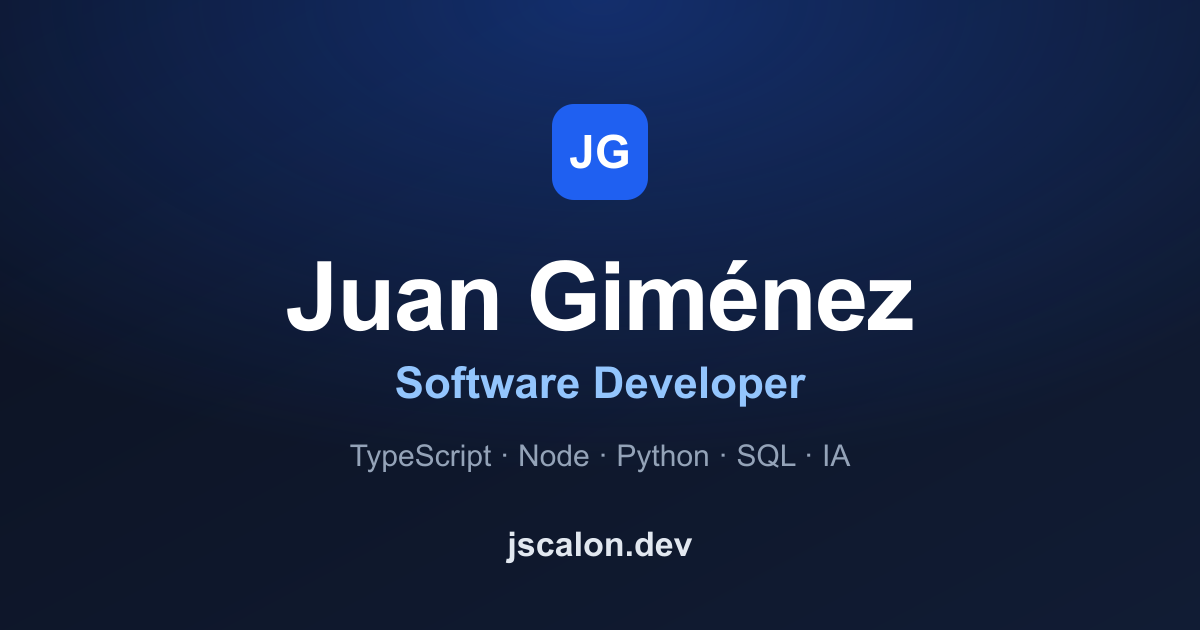
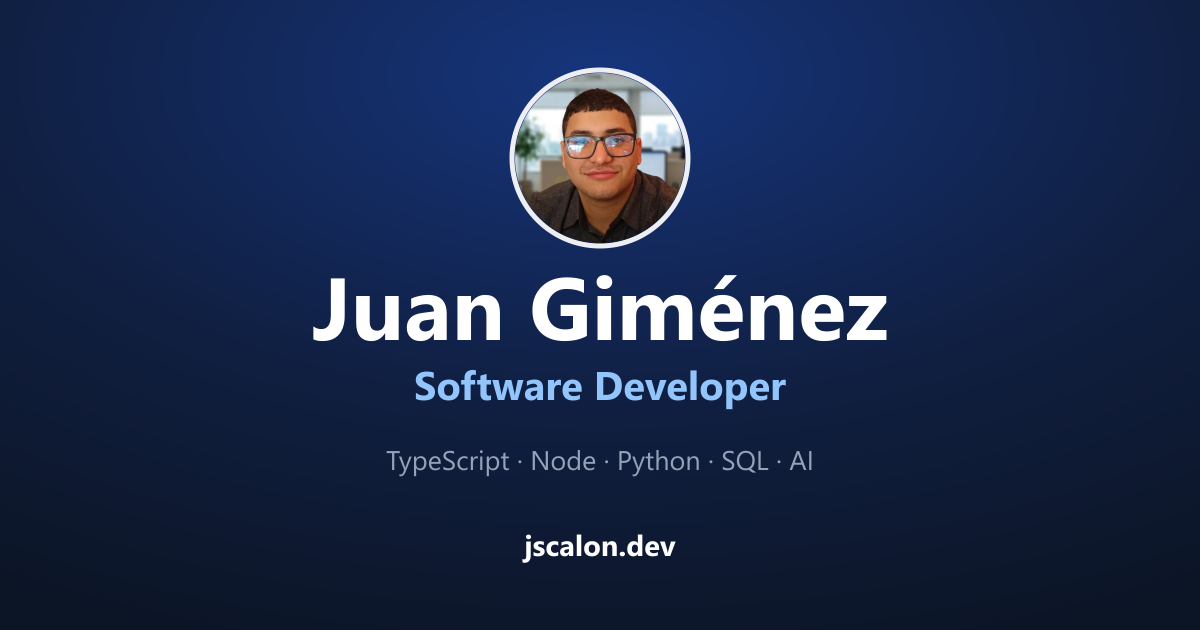
feat: refresh the portrait and make the social card reproducible
Replace the profile photo. The new base was framed wide, with the face in
the upper third, which reads badly in a circular avatar rendered at 112 to
208 px — the face would have come out around 50 px on a phone. Cropped to
a portrait framing instead (eyes at ~40% of the height, head filling ~65%
of the frame) and resized to the documented 800x800.

That change surfaced two derived files nobody knew depended on the photo.

The portfolio case study's cover is a screenshot of the home page, so it
still showed the old portrait. Retaken and updated; the new capture was
848x675 and had to be upscaled to the required 1200x675, which a mostly
flat screenshot tolerates without visible softening.

public/og-image.png embedded the old design's initials rather than a face.
Recomposed around the new portrait, keeping the sampled palette of the
previous card so the identity does not change, and fixing the stack line
to read "AI" instead of "IA" — one card serves both locales, and the
skills list is already in English in both.

Add scripts/og-image.mjs and a `pnpm og` command so that card stops being
an orphaned binary: it is now generated from the portrait, and rerunning
it reproduces the committed file byte for byte. Documented in AGENTS.md,
together with the fact that the card goes stale when the photo changes and
that nothing in the build catches it.

Also clarify the Open Graph note in AGENTS.md. It described the square
[…]

diff --git a/AGENTS.md b/AGENTS.md
@@ -23,6 +23,7 @@ Requires Node 20+.
 - `pnpm dev` — dev server at <http://localhost:4321>
 - `pnpm build` — runs `astro check` then builds to `dist/`
 - `pnpm preview` — serves the production build
+- `pnpm og` — regenerates `public/og-image.png` (see SEO below)
 
 > **Local dev note:** the root path `/` shows the 404 page locally — there is no
 > `src/pages/index.astro`. The root redirect is a Netlify server-side rule
@@ -107,7 +108,15 @@ string itself lives in `ui.ts` (`hero.available`) like every other UI label.
 - `PersonSchema.astro` emits schema.org `Person` JSON-LD, built from `site.ts`.
   Included on the home and CV pages only — not on project pages.
 - `public/og-image.png` is a **centered** composition on purpose, so it survives
-  the square center-crop that some clients (WhatsApp) apply.
+  the square center-crop some clients (WhatsApp) apply **as a fallback**. The wide
+  card is the normal outcome — that is what the declared dimensions above buy; the
+  centering is insurance for when a client falls back to a square, not the expected
+  rendering.
+- That card embeds the portrait from `src/assets/profile.webp`, so it goes stale if
+  the photo changes. `pnpm og` (`scripts/og-image.mjs`) regenerates it — run it
+  after replacing the portrait; nothing in the build catches the drift. Its text
+  stays in English in both locales ("AI", not "IA"), matching the skills list, since
+  one card serves `/es/` and `/en/` alike.
 
 ### Animations
 
